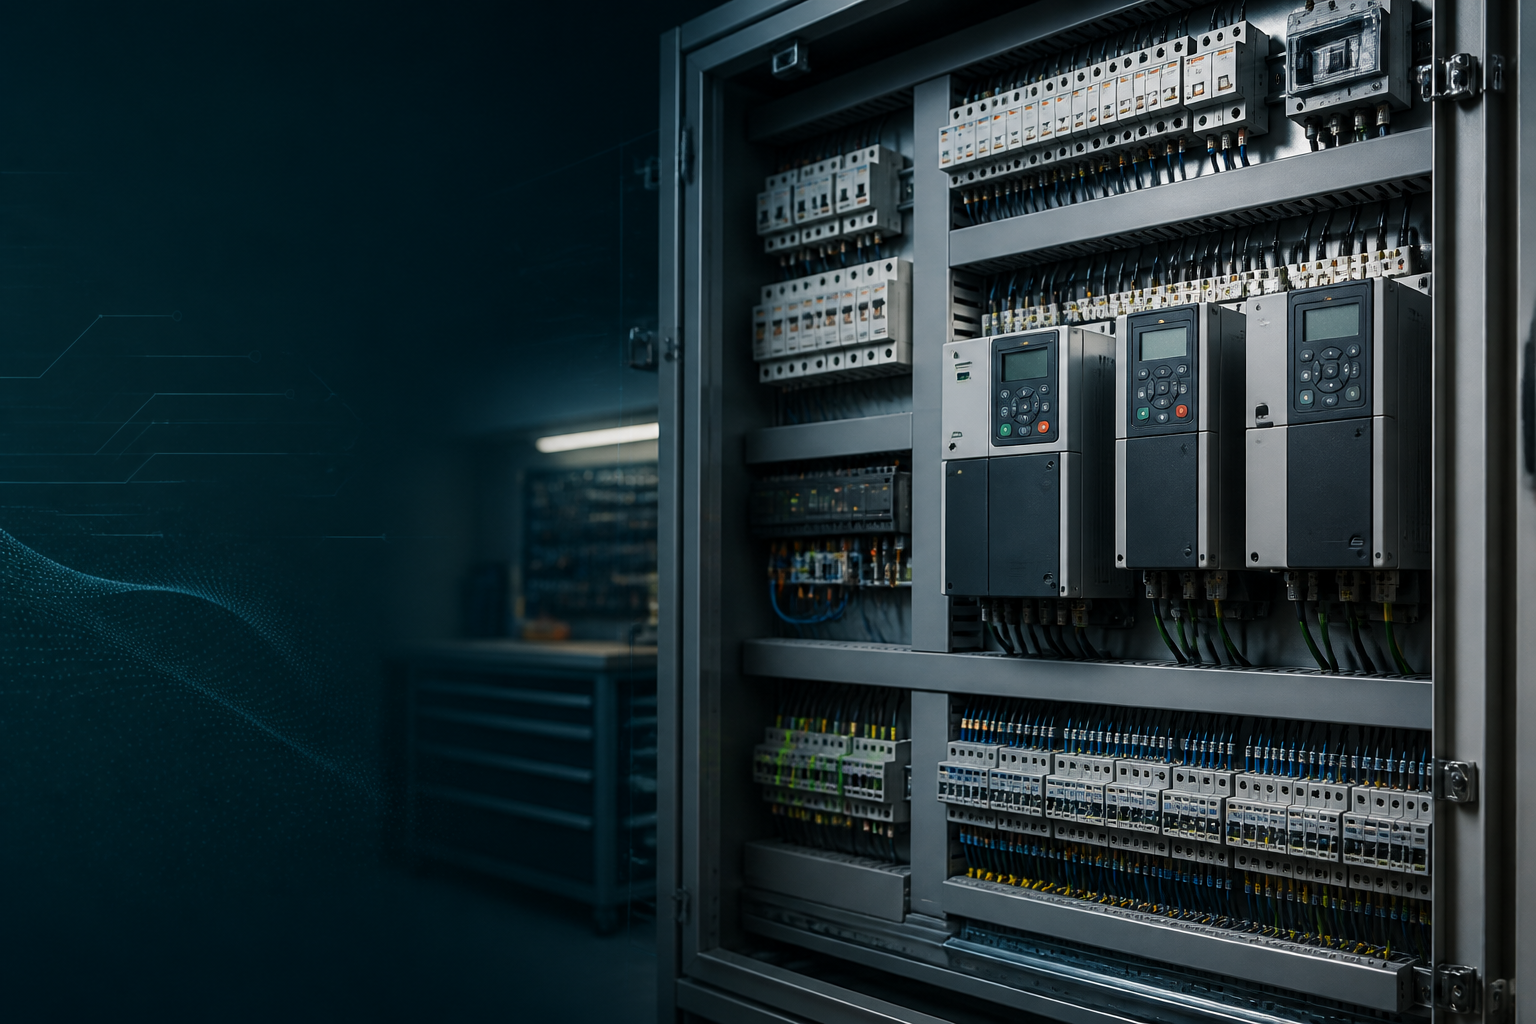
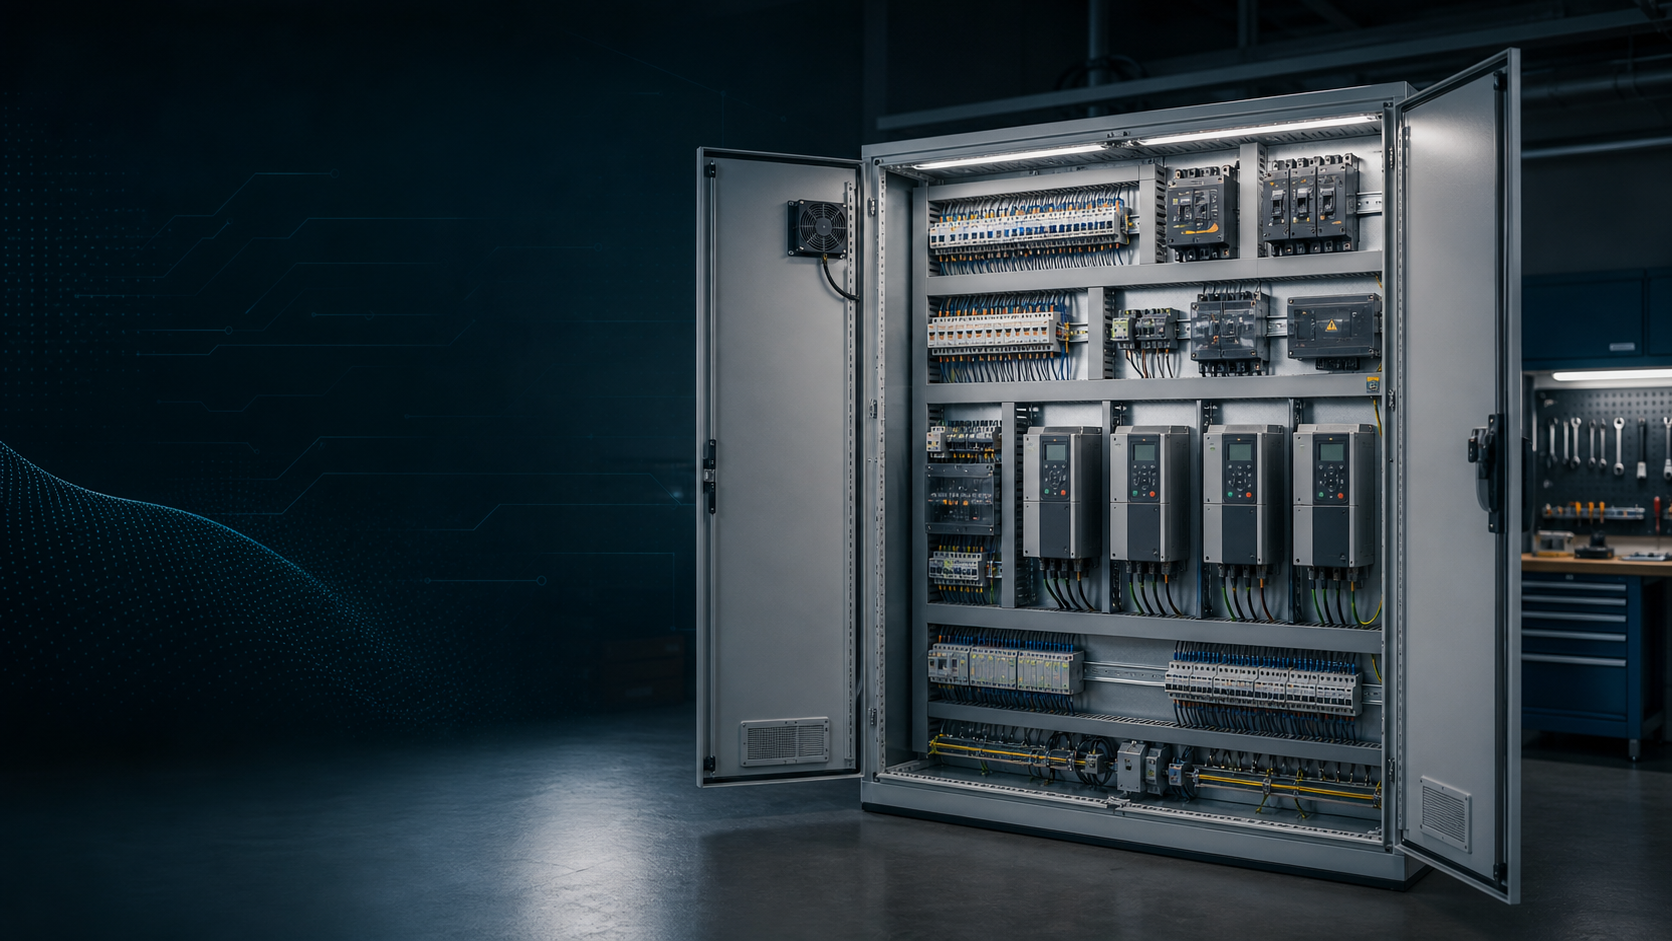
Simplify login hero image

diff --git a/outputs/index.html b/outputs/index.html
@@ -44,11 +44,14 @@
       align-items: center;
       justify-content: flex-start;
       padding: 84px clamp(18px, 6vw, 86px) 42px;
+      background-color: #0d1b1f;
       background:
         linear-gradient(90deg, rgba(13, 27, 31, 0.9) 0%, rgba(20, 47, 54, 0.78) 42%, rgba(20, 47, 54, 0.18) 74%),
         url("assets/indus-hero-electro.png");
-      background-size: cover;
+      background-size: cover, contain;
+      background-repeat: no-repeat;
       background-position: center right;
+      background-color: #0d1b1f;
       position: relative;
       color: #f8faf6;
     }
@@ -96,34 +99,6 @@
       line-height: 0.86;
       color: #fff;
       text-shadow: 0 18px 46px rgba(0, 0, 0, 0.34);
-      letter-spacing: 0;
-    }
-
-    .login-subtitle {
-      width: min(460px, 100%);
-      color: rgba(248, 250, 246, 0.84);
-      font-size: clamp(16px, 2.1vw, 22px);
-      line-height: 1.35;
-      margin: -6px 0 4px;
-    }
-
-    .login-techline {
-      display: flex;
-      flex-wrap: wrap;
-      gap: 8px;
-    }
-
-    .login-techline span {
-      min-height: 30px;
-      display: inline-flex;
-      align-items: center;
-      border: 1px solid rgba(248, 250, 246, 0.2);
-      border-radius: 8px;
-      padding: 5px 9px;
-      color: rgba(248, 250, 246, 0.82);
-      background: rgba(248, 250, 246, 0.08);
-      font-size: 13px;
-      font-weight: 800;
       letter-spacing: 0;
     }
 
@@ -905,8 +880,9 @@
         background:
           linear-gradient(180deg, rgba(13, 27, 31, 0.34) 0%, rgba(13, 27, 31, 0.9) 58%, rgba(13, 27, 31, 0.96) 100%),
           url("assets/indus-hero-electro.png");
-        background-size: cover;
-        background-position: center;
+        background-size: cover, auto 72%;
+        background-repeat: no-repeat;
+        background-position: center, center top;
       }
       .login-brand {
         top: 12px;
@@ -919,12 +895,6 @@
       }
       .login-card h1 {
         font-size: clamp(48px, 18vw, 76px);
-      }
-      .login-subtitle {
-        font-size: 16px;
-      }
-      .login-techline span {
-        font-size: 12px;
       }
       .google-button {
         width: 100%;
@@ -996,13 +966,6 @@
     <form class="login-card" id="loginForm">
       <div class="login-logo">IU</div>
       <h1>INDUS URE</h1>
-      <p class="login-subtitle">Elektro servis, avtomatika, frekven&#269;niki in terensko delo v enem koledarju.</p>
-      <div class="login-techline" aria-label="Podrocja dela">
-        <span>elektro omare</span>
-        <span>frekven&#269;niki</span>
-        <span>servis</span>
-        <span>housetech</span>
-      </div>
       <div class="offline hidden" id="serverWarning">Odpri stran prek lokalnega stre&#382;nika, ne direktno kot datoteko.</div>
       <button class="google-button" id="googleLoginBtn" type="submit">
         <span class="google-mark">G</span>